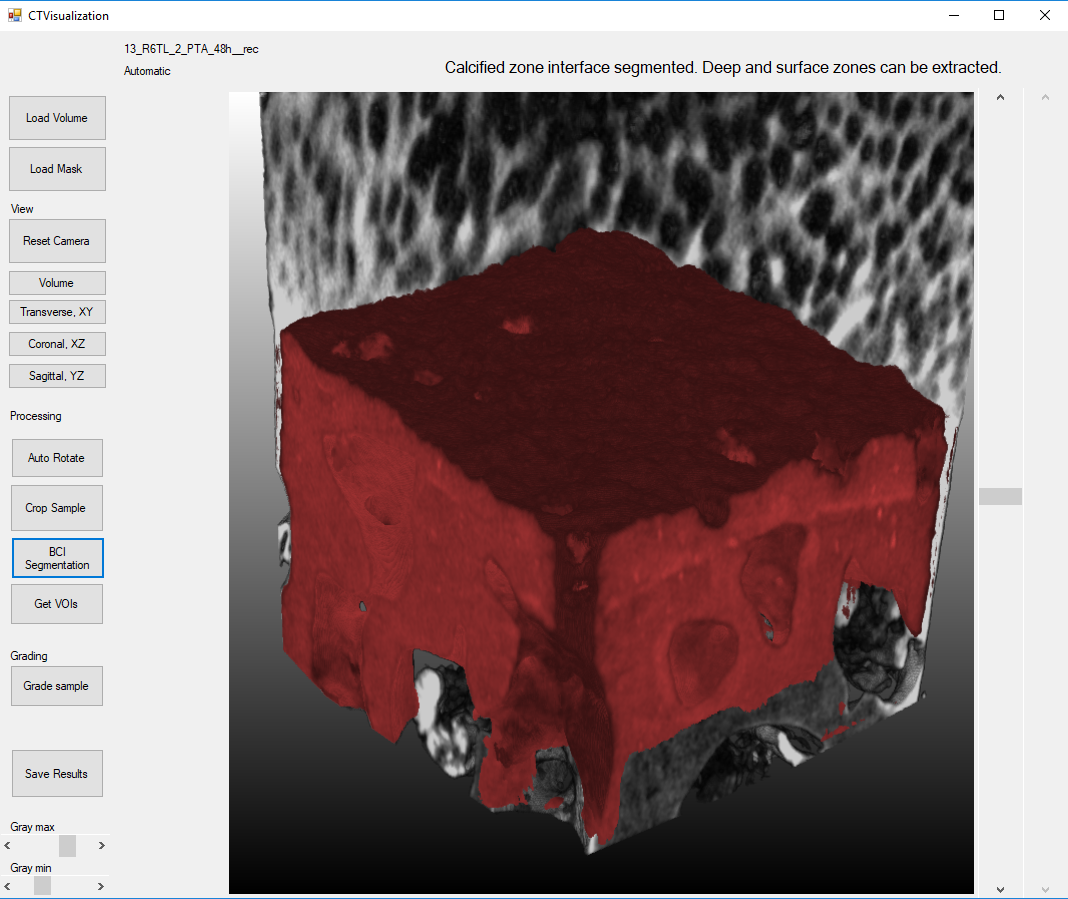
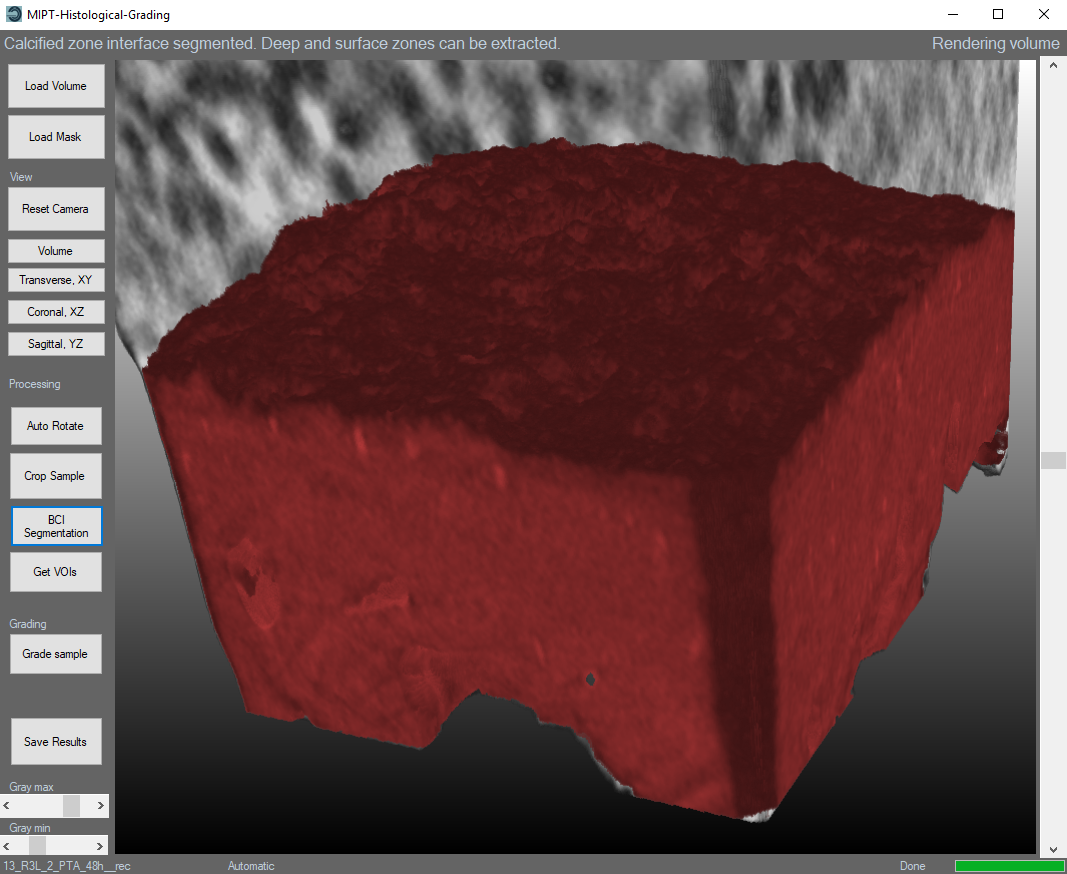
Visual update

diff --git a/3DHistoGrading/MainForm.cs b/3DHistoGrading/MainForm.cs
@@ -191,7 +191,7 @@ namespace HistoGrading
         //Load CT data
         private void fileButton_Click(object sender, EventArgs e)
         {
-            label4.Text = "Calculating: ";
+            label4.Text = "Loading: ";
             mainProgress.Value = 10;
             //Select a file and render volume
             if (fileDialog.ShowDialog() == DialogResult.OK)
@@ -226,7 +226,7 @@ namespace HistoGrading
                         fname += "_";
                     }
                 }
-                mainProgress.Value = 20;
+                mainProgress.Value = 50;
 
                 //Load data
                 volume.connectData(impath);
@@ -304,6 +304,8 @@ namespace HistoGrading
         //Load bone mask
         private void maskButton_Click(object sender, EventArgs e)
         {
+            label4.Text = "Loading: ";
+            mainProgress.Value = 10;
             //Dwitch between loading and removing the bone mask
             switch (is_mask)
             {
@@ -326,9 +328,10 @@ namespace HistoGrading
                             volume.updateCurrent(sliceN, ori, gray);
                             // Set cartilage grids based on mask
                             //volume.SampleGrids();
+                            mainProgress.Value = 50;
 
-                        //Render
-                        if (ori == -1)
+                            //Render
+                            if (ori == -1)
                             {
                                 volume.renderVolumeMask();
                                 volume.setVolumeColor();
@@ -368,6 +371,8 @@ namespace HistoGrading
             // Update tooltip
             tip = "Loaded mask. If calcified zone mask was used, deep and surface zones can be extracted.";
             gradeLabel.Text = tip;
+            mainProgress.Value = 100;
+            label4.Text = "Done";
         }
 
         //Reset camera
@@ -554,7 +559,10 @@ namespace HistoGrading
         //Automatically reorient the sample
         private void rotate_button_Click(object sender, EventArgs e)
         {
+            label4.Text = "Calculating: ";
+            mainProgress.Value = 10;
             string angles = volume.auto_rotate();
+            mainProgress.Value = 80;
             dims = volume.getDims();
             sliceN[0] = (dims[1] + dims[0]) / 2;
             sliceN[1] = (dims[3] + dims[2]) / 2;
@@ -587,18 +595,23 @@ namespace HistoGrading
             // Update tip
             tip = angles;
             gradeLabel.Text = tip;
+            mainProgress.Value = 100;
+            label4.Text = "Done";
         }
 
         //Automatically segment the BC interface
         private void segmentButton_Click(object sender, EventArgs e)
         {
+            label4.Text = "Calculating: ";
+            mainProgress.Value = 10;
             //VOI for segmentation
 
-            volume.segmentation();            
+            volume.segmentation();
+            mainProgress.Value = 80;
 
             //Update rendering pipeline
             is_mask = 1;
-            maskLabel.Text = "Automatic";
+            maskLabel.Text = "Mask: automatic";
 
             
             //Render
@@ -624,15 +637,19 @@ namespace HistoGrading
             // Update tooltip
             tip = "Calcified zone interface segmented. Deep and surface zones can be extracted.";
             gradeLabel.Text = tip;
+            mainProgress.Value = 100;
+            label4.Text = "Done";
         }
 
         //Automatically crop the center of the sample
         private void cropButton_Click(object sender, EventArgs e)
         {
-
+            label4.Text = "Calculating: ";
+            mainProgress.Value = 10;
             //Connect mask to segmentation pipeline
             int size = 448;
-            volume.center_crop(size);            
+            volume.center_crop(size);
+            mainProgress.Value = 80;
             //Update sample dimensions
             dims = volume.getDims();
             sliceN[0] = (dims[1] + dims[0]) / 2;
@@ -657,12 +674,17 @@ namespace HistoGrading
             tip = "Cropped to " + size.ToString() + " | " + size.ToString() + " size";
             gradeLabel.Text = tip;
             GC.Collect();
+            mainProgress.Value = 100;
+            label4.Text = "Done";
         }
 
         //Remove preparation artefacts from the surface
         private void getVoiButton_Click(object sender, EventArgs e)
         {
+            label4.Text = "Calculating: ";
+            mainProgress.Value = 10;
             volume.analysis_vois();
+            mainProgress.Value = 80;
 
             is_mask = 1;
 
@@ -699,11 +721,15 @@ namespace HistoGrading
             // Update tooltip
             tip = "Surface, calcified and deep zones extracted. Automatic grading can be conducted.";
             gradeLabel.Text = tip;
+            mainProgress.Value = 100;
+            label4.Text = "Done";
         }
 
         // Predict OA grade
         private void predict_Click(object sender, EventArgs e)
         {
+            label4.Text = "Calculating: ";
+            mainProgress.Value = 10;
             string[] models = new string[] { ".\\Default\\calc_weights.dat", ".\\Default\\deep_weights.dat", ".\\Default\\surf_weights.dat" };
             string[] parameters = new string[] { ".\\Default\\calc_parameters.csv", ".\\Default\\deep_parameters.csv", ".\\Default\\surf_parameters.csv" };
             string grade = volume.grade_vois(models, parameters, fname);
@@ -711,11 +737,15 @@ namespace HistoGrading
             string grade = Grading.PredictSurface(ref volume, fname, out int[,] surfaceCoordinates);
             */
             gradeLabel.Text = grade;
+            mainProgress.Value = 100;
+            label4.Text = "Done";
         }
 
         private void saveButton_Click(object sender, EventArgs e)
         {
-            if(save_mask == 1)
+            label4.Text = "Saving: ";
+            mainProgress.Value = 10;
+            if (save_mask == 1)
             {
                 //Save sample
                 volume.save_data(fname, savedir);
@@ -729,8 +759,11 @@ namespace HistoGrading
                 volume.save_masks(names, savedir);
             }
 
-
-
+            // Update tooltip
+            tip = "Saved images in path " + savedir;
+            gradeLabel.Text = tip;
+            mainProgress.Value = 100;
+            label4.Text = "Done";
         }
 
         //Scroll bars

diff --git a/3DHistoGrading/MainForm.Designer.cs b/3DHistoGrading/MainForm.Designer.cs
@@ -86,7 +86,7 @@
             this.tableLayoutPanel1.RowStyles.Add(new System.Windows.Forms.RowStyle(System.Windows.Forms.SizeType.Absolute, 40F));
             this.tableLayoutPanel1.RowStyles.Add(new System.Windows.Forms.RowStyle(System.Windows.Forms.SizeType.Percent, 100F));
             this.tableLayoutPanel1.RowStyles.Add(new System.Windows.Forms.RowStyle(System.Windows.Forms.SizeType.Absolute, 25F));
-            this.tableLayoutPanel1.Size = new System.Drawing.Size(1604, 1334);
+            this.tableLayoutPanel1.Size = new System.Drawing.Size(1604, 1500);
             this.tableLayoutPanel1.TabIndex = 0;
             // 
             // panel1
@@ -211,7 +211,7 @@
             this.viewLabel.Name = "viewLabel";
             this.viewLabel.Size = new System.Drawing.Size(43, 20);
             this.viewLabel.TabIndex = 10;
-            this.viewLabel.Text = "View";
+            this.viewLabel.Text = "Viewing";
             // 
             // predict
             // 
@@ -359,6 +359,7 @@
             // 
             this.fileButton.Cursor = System.Windows.Forms.Cursors.Hand;
             this.fileButton.ForeColor = System.Drawing.SystemColors.ControlText;
+            this.fileButton.BackColor = System.Drawing.SystemColors.ControlLight;
             this.fileButton.Location = new System.Drawing.Point(10, 6);
             this.fileButton.Margin = new System.Windows.Forms.Padding(3, 5, 3, 5);
             this.fileButton.Name = "fileButton";
@@ -425,7 +426,7 @@
             this.renderWindowControl.Location = new System.Drawing.Point(176, 46);
             this.renderWindowControl.Margin = new System.Windows.Forms.Padding(6);
             this.renderWindowControl.Name = "renderWindowControl";
-            this.renderWindowControl.Size = new System.Drawing.Size(1382, 1252);
+            this.renderWindowControl.Size = new System.Drawing.Size(1382, 1500);
             this.renderWindowControl.TabIndex = 3;
             this.renderWindowControl.TestText = null;
             this.renderWindowControl.Load += new System.EventHandler(this.renderWindowControl_Load);
@@ -490,7 +491,7 @@
             this.AutoScaleDimensions = new System.Drawing.SizeF(9F, 20F);
             this.AutoScaleMode = System.Windows.Forms.AutoScaleMode.Font;
             this.BackColor = System.Drawing.SystemColors.WindowFrame;
-            this.ClientSize = new System.Drawing.Size(1604, 1334);
+            this.ClientSize = new System.Drawing.Size(1604, 1500);
             this.Controls.Add(this.tableLayoutPanel1);
             this.ForeColor = System.Drawing.SystemColors.InactiveCaption;
             this.Icon = ((System.Drawing.Icon)(resources.GetObject("$this.Icon")));

diff --git a/3DHistoGrading/Components/DataTypes.cs b/3DHistoGrading/Components/DataTypes.cs
@@ -15,6 +15,8 @@ using Accord.Math;
 
 namespace HistoGrading.Components
 {
+    delegate void TestDelegate(ref double val);
+
     /// <summary>
     /// Contains functions for data type conversions.
     /// </summary>
@@ -354,13 +356,20 @@ namespace HistoGrading.Components
             return new Bitmap(LBPLibrary.Functions.ByteMatrixToBitmap(bytearray));
              */
             double min = 1e9; double max = -1e9;
+
+            TestDelegate t = (ref double val) => {
+                if (val > max) { max = val; }
+                if (val < min) { min = val; }
+            };
+
             for (int kx = 0; kx < array.GetLength(1); kx++)
             {
                 for (int ky = 0; ky < array.GetLength(0); ky++)
                 {
                     double val = array[ky, kx];
-                    if (val > max) { max = val; }
-                    if (val < min) { min = val; }
+                    t(ref val);
+                    //if (val > max) { max = val; }
+                    //if (val < min) { min = val; }
                 }
             }
 
